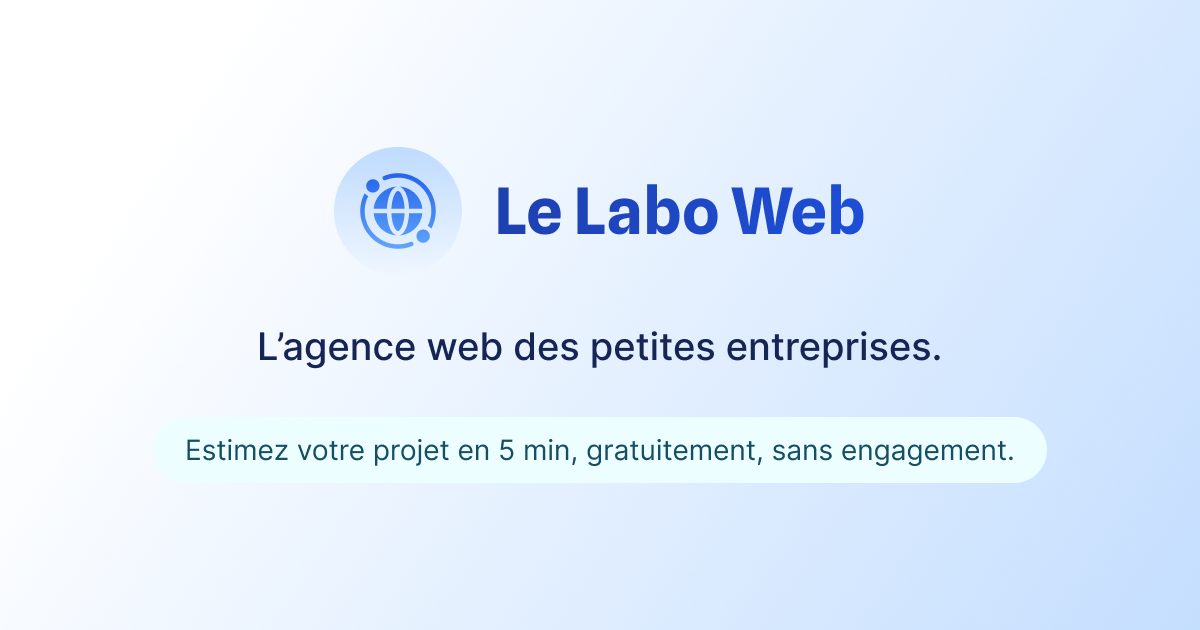
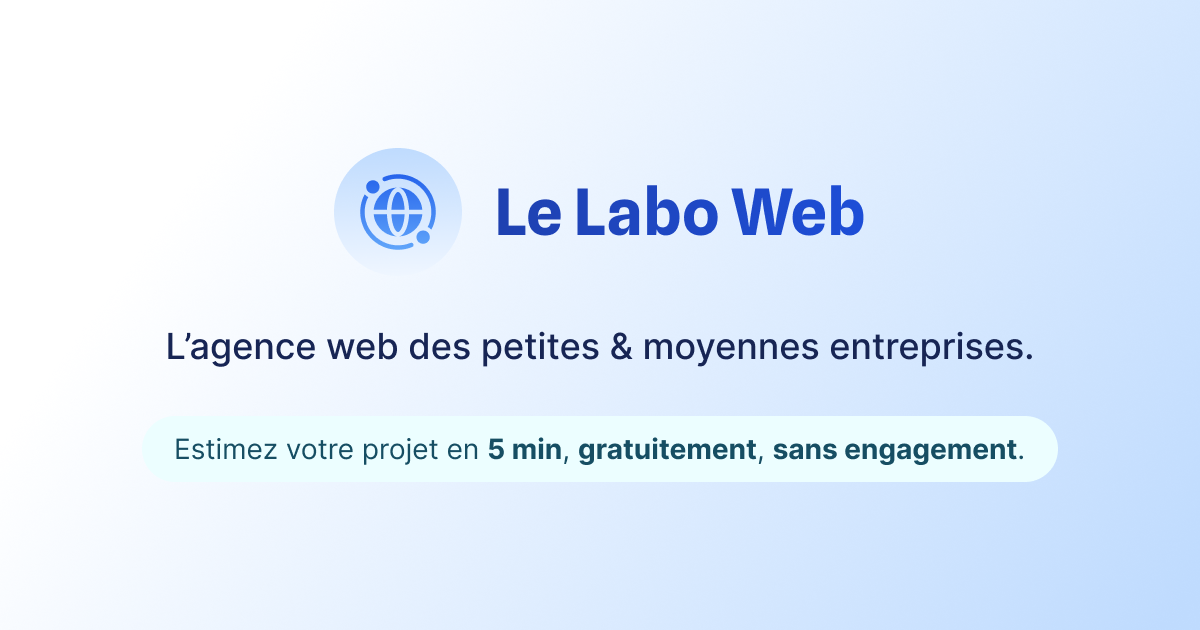
feat: update wording and meta-og images

diff --git a/app/layout.tsx b/app/layout.tsx
@@ -8,7 +8,8 @@ import { Footer } from "../components/layout/Footer";
 
 export const metadata: Metadata = {
   metadataBase: new URL("https://lelaboweb.fr"),
-  title: "LeLaboWeb — l'agence web des petites entreprises",
+  title:
+    "LeLaboWeb — l'agence web sur-mesure des petites & moyennes entreprises",
   description:
     "LeLaboWeb est une agence web spécialisée dans le développement numérique de votre activité. Estimez votre projet en ligne gratuitement, en 5 minutes et sans engagement.",
 };

diff --git a/components/sections/Hero.tsx b/components/sections/Hero.tsx
@@ -24,7 +24,8 @@ export function Hero() {
               <span className="bg-gradient-to-br from-blue-50 via-amber-300 to-red-400 bg-clip-text font-heading font-bold text-transparent">
                 Le Labo Web
               </span>
-              , l&apos;agence web pensée pour les petites entreprises.
+              , l&apos;agence web pensée pour les petites & moyennes
+              entreprises.
             </Balancer>
           </h1>
 
